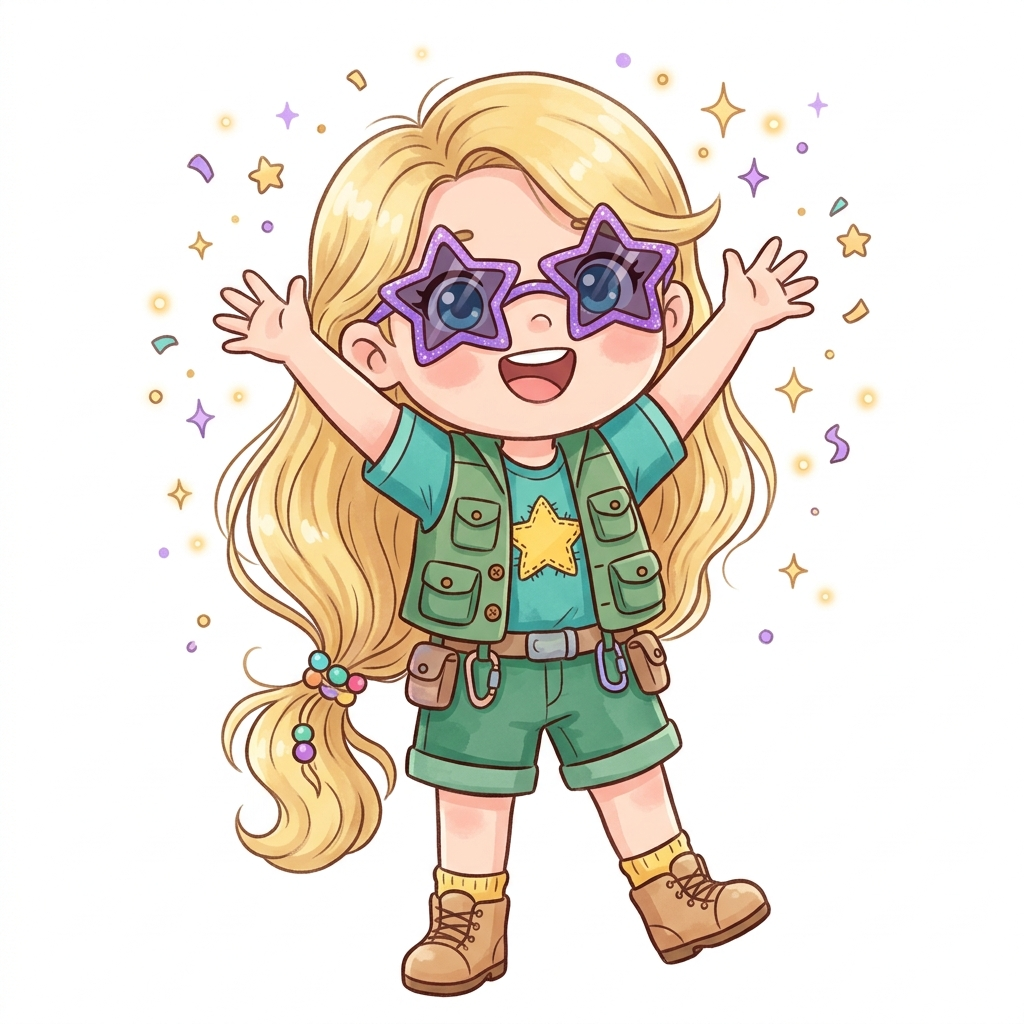
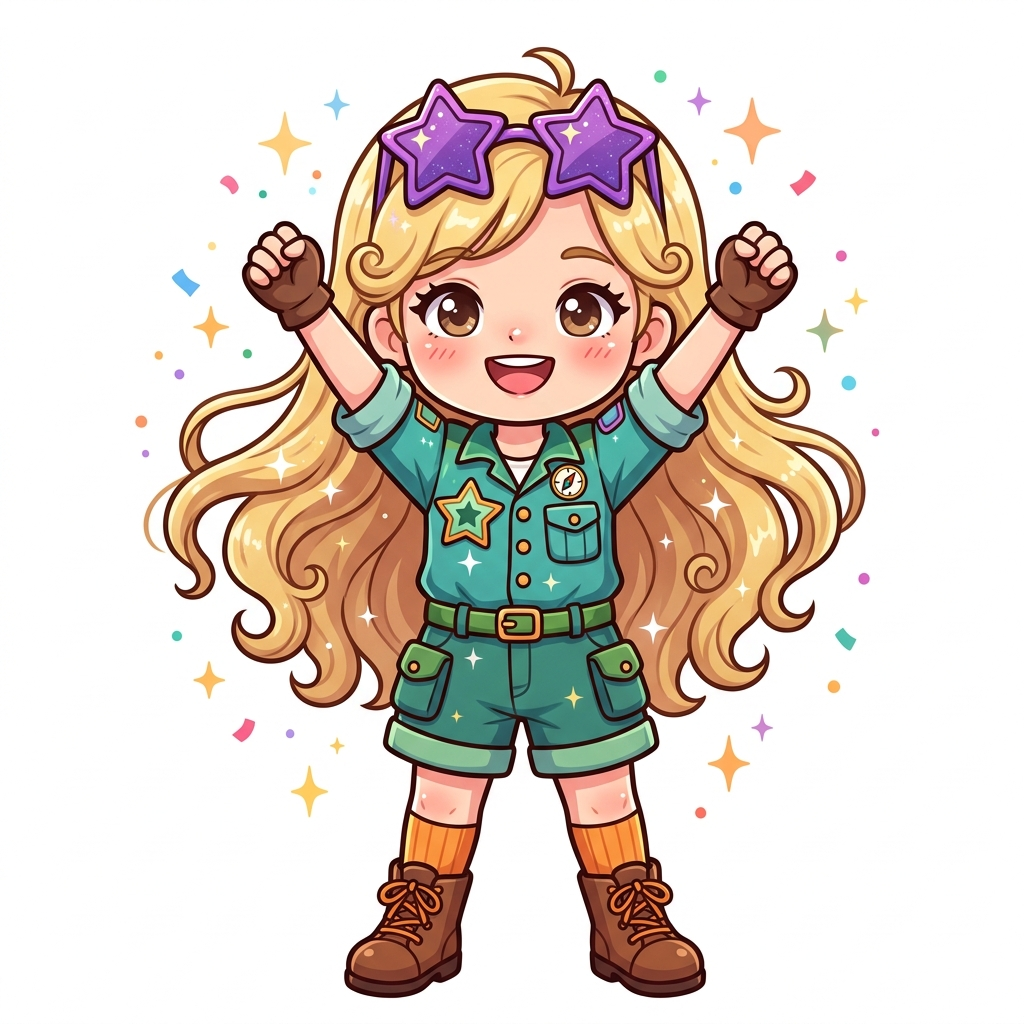
Fix redesign — migrate cached settings, regenerate Elizabeth art
- Migrate existing users from old defaults (system font, white bg)
  to new defaults (Lexend, warm cream) on startup and in Settings
- Add Lexend to font map in main.jsx
- Fix normal spacing to use 0.03em (was still 0.01em in main.jsx)
- Regenerate Elizabeth PNGs with clean white backgrounds
- Add mix-blend-mode: multiply to blend white edges with any bg

diff --git a/src/main.jsx b/src/main.jsx
@@ -6,13 +6,14 @@ import { loadProgress } from './storage/progress.js';
 
 // Apply saved accessibility settings on startup
 const FONT_CSS = {
+  lexend: "'Lexend', system-ui, -apple-system, 'Segoe UI', Verdana, Helvetica, Arial, sans-serif",
   system: "system-ui, -apple-system, 'Segoe UI', Verdana, Helvetica, Arial, sans-serif",
   opendyslexic: "'OpenDyslexic', sans-serif",
   'comic-sans': "'Comic Sans MS', 'Comic Sans', cursive",
 };
 const SIZE_CSS = { normal: '1.125rem', large: '1.35rem', 'extra-large': '1.6rem' };
 const SPACING_CSS = {
-  normal: { lineHeight: '1.6', letterSpacing: '0.01em' },
+  normal: { lineHeight: '1.6', letterSpacing: '0.03em' },
   relaxed: { lineHeight: '1.8', letterSpacing: '0.05em' },
   'very-relaxed': { lineHeight: '2.0', letterSpacing: '0.1em' },
 };
@@ -20,6 +21,10 @@ const SPACING_CSS = {
 try {
   const { settings } = loadProgress();
   if (settings) {
+    // Migrate old defaults to new defaults
+    if (!settings.fontFamily || settings.fontFamily === 'system') settings.fontFamily = 'lexend';
+    if (!settings.bgColor || settings.bgColor === '#ffffff' || settings.bgColor === '#e8f4f8') settings.bgColor = '#FFFBF0';
+
     const root = document.documentElement;
     if (FONT_CSS[settings.fontFamily]) root.style.setProperty('--font-family', FONT_CSS[settings.fontFamily]);
     if (SIZE_CSS[settings.fontSize]) root.style.setProperty('--font-size', SIZE_CSS[settings.fontSize]);

diff --git a/src/screens/Settings.jsx b/src/screens/Settings.jsx
@@ -32,12 +32,13 @@ const BG_OPTIONS = [
 export default function Settings() {
   const [settings, setSettings] = useState(() => {
     const progress = loadProgress();
-    return progress.settings || {
-      fontFamily: 'lexend',
-      fontSize: 'normal',
-      lineSpacing: 'normal',
-      bgColor: '#FFFBF0',
-    };
+    const saved = progress.settings || {};
+    // Migrate old defaults to new defaults
+    if (!saved.fontFamily || saved.fontFamily === 'system') saved.fontFamily = 'lexend';
+    if (!saved.bgColor || saved.bgColor === '#ffffff' || saved.bgColor === '#e8f4f8') saved.bgColor = '#FFFBF0';
+    if (!saved.fontSize) saved.fontSize = 'normal';
+    if (!saved.lineSpacing) saved.lineSpacing = 'normal';
+    return saved;
   });
 
   // Apply settings to CSS custom properties in real time

diff --git a/src/components/ElizabethCharacter.jsx b/src/components/ElizabethCharacter.jsx
@@ -20,7 +20,7 @@ export default function ElizabethCharacter({ mood = 'happy', size = 100 }) {
       alt={`Elizabeth looking ${mood}`}
       width={size}
       height={size}
-      style={{ width: size, height: size, objectFit: 'contain' }}
+      style={{ width: size, height: size, objectFit: 'contain', mixBlendMode: 'multiply' }}
       draggable={false}
     />
   );
